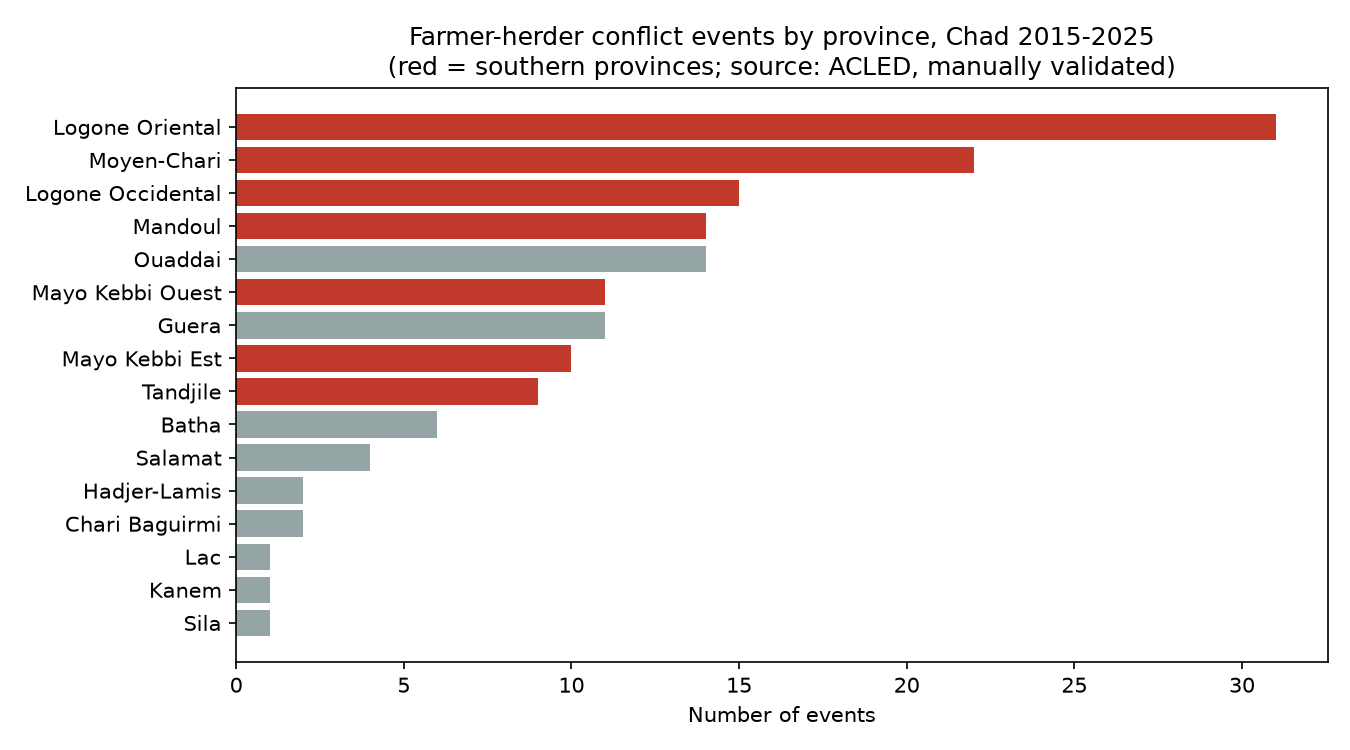
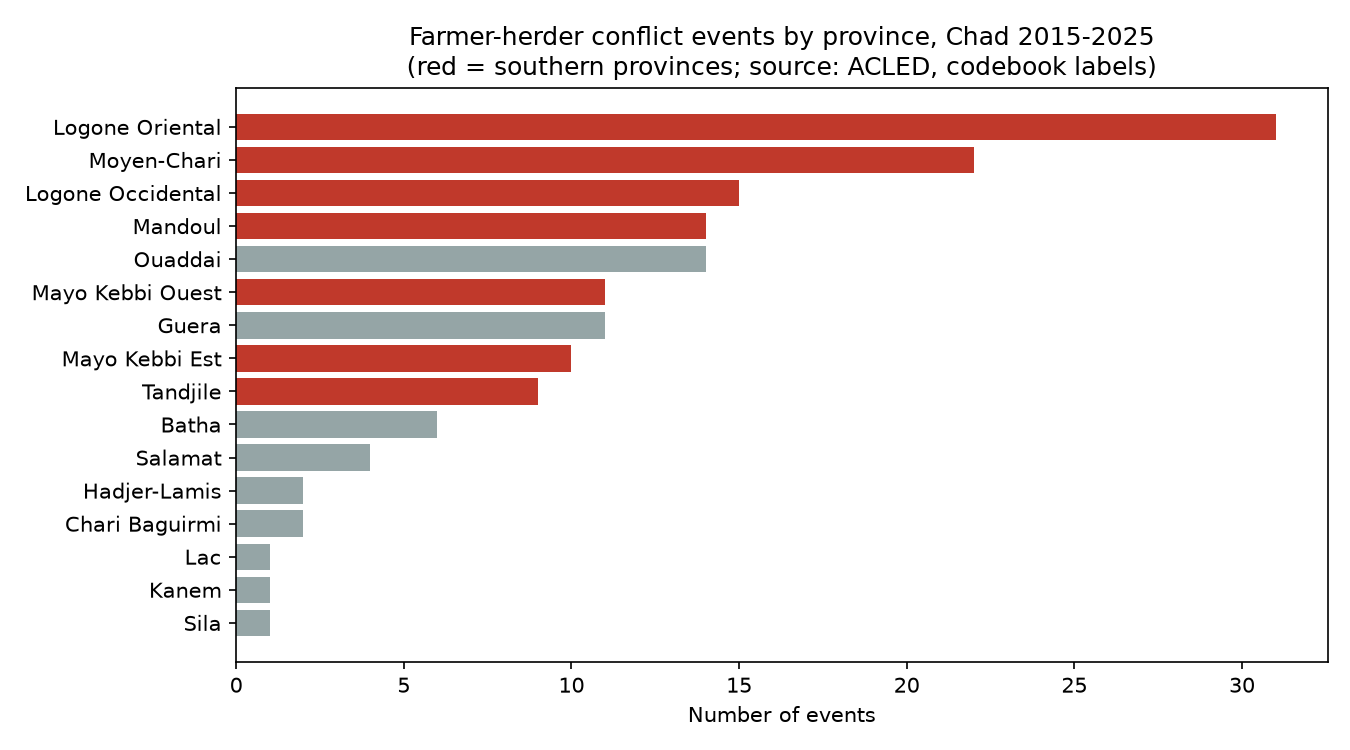
Align repository with the ethics summative (REC approval, AI use, research status)
- State that the 1,593 ACLED events were classified with an AI assistant and validated on a
  blind 60-event sample (codebook, labels module, scripts, dashboard captions, notebook, figure)
- Questionnaire: consent text matches the approved form; status note (not sent yet, runs only
  under REC approval SEPT26-BSE-087); drop "patrols" from the examples
- Model card: author, supervisor and REC approval; "danger maps" as a prohibited use; proxy,
  access and validation limitations; accurate AI-use statement
- README: ethics section (approval, status, consent, frameworks, limitations), AI use,
  copyright (all rights reserved) and third-party licences
- Privacy & Terms page v1.1: UNESCO and ACM guidance named; AI classification disclosed
- Technical report rebuilt: practitioner feedback "not started", 81 tests, ethics and AI use

Changed region(s): [[0.28, 0.0613, 0.8711, 0.1227]]

diff --git a/app/i18n.py b/app/i18n.py
@@ -19,11 +19,11 @@ TXT = {
              ["Perspectives actuelles", "Rejeu 2024–2025", "Résultats", "Conflits observés",
               "À propos des modèles", "Confidentialité et conditions"]),
     "map_source": ("Conflict data: ACLED (Armed Conflict Location & Event Data), "
-                   "[acleddata.com](https://acleddata.com), events classified by the author. "
+                   "[acleddata.com](https://acleddata.com), events classified for this project with an AI assistant. "
                    "Boundaries: geoBoundaries / OCHA Chad (CC BY 3.0 IGO). Background map: © "
                    "OpenStreetMap contributors.",
                    "Données de conflit : ACLED (Armed Conflict Location & Event Data), "
-                   "[acleddata.com](https://acleddata.com), événements classés par l'auteur. "
+                   "[acleddata.com](https://acleddata.com), événements classés pour ce projet avec un assistant IA. "
                    "Limites : geoBoundaries / OCHA Tchad (CC BY 3.0 IGO). Fond de carte : © "
                    "contributeurs OpenStreetMap."),
     "caption": ("Research prototype · satellite data up to **{sat}** · conflict data (ACLED, "
@@ -96,10 +96,12 @@ TXT = {
     "obs_deaths": ("Fatalities (strict FH)", "Décès (FH strict)"),
     "obs_dm": ("Department-months with ≥1 event", "Mois-départements avec ≥ 1 événement"),
     "obs_legend": ("Events in period", "Événements sur la période"),
-    "obs_caption": ("ACLED events manually classified as farmer-herder violence (blind "
-                    "validation: Cohen's kappa = 0.83), January 2019 – {end}.",
-                    "Événements ACLED classés manuellement comme violences agriculteurs-éleveurs"
-                    " (validation à l'aveugle : kappa de Cohen = 0,83), janvier 2019 – {end}."),
+    "obs_caption": ("ACLED events classified as farmer-herder violence with an AI assistant and a "
+                    "written codebook (blind validation on 60 events: Cohen's kappa = 0.83), "
+                    "January 2019 – {end}.",
+                    "Événements ACLED classés comme violences agriculteurs-éleveurs avec un "
+                    "assistant IA et un guide de codage écrit (validation à l'aveugle sur 60 "
+                    "événements : kappa de Cohen = 0,83), janvier 2019 – {end}."),
     "events": ("events", "événements"), "fatalities": ("fatalities", "décès"),
     "about": ("**Two models, two purposes.**\n\n"
               "- **Operational model** (*Current outlook*, *Replay*): uses only what is really "
@@ -221,7 +223,7 @@ visible ; le satellite voit les cultures sécher, pas la récolte elle-même.
 PRIVACY = {
     "en": """
 ## Privacy policy and terms of use
-*Version 1.0 · last updated 18 November 2026*
+*Version 1.1 · last updated 20 November 2026*
 
 This dashboard is a research prototype built by Sougnabe Payang for a BSc Software Engineering
 capstone project at African Leadership University (ALU). The research was approved by the ALU
@@ -270,7 +272,7 @@ information**.
 ### 5. Data sources and licences
 | Source | Licence / terms |
 |---|---|
-| ACLED conflict events (classified by the author) | ACLED End User License Agreement and Attribution Policy; raw data not redistributed |
+| ACLED conflict events (classified for this project with an AI assistant) | ACLED End User License Agreement and Attribution Policy; raw data not redistributed |
 | MODIS MOD13Q1 vegetation index (NASA) | no restrictions on use or redistribution |
 | CHIRPS rainfall (Climate Hazards Center, UCSB) | public domain |
 | ESA WorldCover 2021 | CC BY 4.0 |
@@ -282,7 +284,9 @@ information**.
 ### 6. Legal framework
 Designed to respect Chad's Law n° 007/PR/2015 on personal data protection, Rwanda's Law
 n° 058/2021 on the protection of personal data and privacy (ALU is based in Kigali) and the
-African Union Convention on Cyber Security and Personal Data Protection (Malabo, 2014).
+African Union Convention on Cyber Security and Personal Data Protection (Malabo, 2014). It also
+follows two non-binding guides: the UNESCO Recommendation on the Ethics of Artificial
+Intelligence (2021) and the ACM Code of Ethics and Professional Conduct (2018).
 
 ### 7. Changes and contact
 Any change to this policy will be dated above. Questions, corrections or requests to remove
@@ -290,7 +294,7 @@ content: s.payang@alustudent.com.
 """,
     "fr": """
 ## Politique de confidentialité et conditions d'utilisation
-*Version 1.0 · dernière mise à jour le 18 novembre 2026*
+*Version 1.1 · dernière mise à jour le 20 novembre 2026*
 
 Ce tableau de bord est un prototype de recherche réalisé par Sougnabe Payang dans le cadre d'un
 projet de fin d'études (BSc Software Engineering) à l'African Leadership University (ALU). La
@@ -342,7 +346,7 @@ description d'événement et aucune information ethnique, religieuse ou linguist
 ### 5. Sources de données et licences
 | Source | Licence / conditions |
 |---|---|
-| Événements de conflit ACLED (classés par l'auteur) | Contrat de licence (EULA) et politique d'attribution d'ACLED ; données brutes non redistribuées |
+| Événements de conflit ACLED (classés pour ce projet avec un assistant IA) | Contrat de licence (EULA) et politique d'attribution d'ACLED ; données brutes non redistribuées |
 | Indice de végétation MODIS MOD13Q1 (NASA) | aucune restriction d'utilisation ou de redistribution |
 | Pluie CHIRPS (Climate Hazards Center, UCSB) | domaine public |
 | ESA WorldCover 2021 | CC BY 4.0 |
@@ -356,6 +360,9 @@ Conçu pour respecter la loi tchadienne n° 007/PR/2015 portant protection des d
 caractère personnel, la loi rwandaise n° 058/2021 relative à la protection des données à
 caractère personnel et de la vie privée (l'ALU est basée à Kigali) et la Convention de l'Union
 africaine sur la cybersécurité et la protection des données à caractère personnel (Malabo, 2014).
+Il suit aussi deux guides non contraignants : la Recommandation de l'UNESCO sur l'éthique de
+l'intelligence artificielle (2021) et le Code d'éthique et de conduite professionnelle de l'ACM
+(2018).
 
 ### 7. Modifications et contact
 Toute modification de cette politique sera datée ci-dessus. Questions, corrections ou demandes

diff --git a/chadrisk/data/labels.py b/chadrisk/data/labels.py
@@ -1,6 +1,7 @@
 """Validated event labels and the farmer-herder target variable.
 
-Labels (see docs/labeling_codebook.md):
+Labels (see docs/labeling_codebook.md; events classified with an AI assistant following
+the codebook, checked on a blind 60-event sample labelled by the author):
     FH  direct violence between farmers and herders (model target)
     AMB communal / pastoral violence without explicit farmer-herder framing
     REL related but non-violent event (protest, arrests, reconciliation)
@@ -17,7 +18,7 @@ VALID_LABELS = ("FH", "AMB", "REL", "NO")
 
 
 class LabelledEvents:
-    """Joins raw ACLED events with the manual labels and derives the targets."""
+    """Joins raw ACLED events with the codebook labels and derives the targets."""
 
     def __init__(self, events: pd.DataFrame, labels: pd.DataFrame):
         self._validate_labels(labels)
@@ -55,7 +56,7 @@ class LabelledEvents:
 
     @staticmethod
     def keyword_agreement(df: pd.DataFrame) -> tuple[float, float]:
-        """Precision and recall of the keyword filter against the manual labels."""
+        """Precision and recall of the keyword filter against the codebook labels."""
         hits = df["keyword_hit"] & (df["target_fh"] == 1)
         return hits.sum() / df["keyword_hit"].sum(), hits.sum() / df["target_fh"].sum()
 

diff --git a/chadrisk/config.py b/chadrisk/config.py
@@ -95,7 +95,7 @@ OUTCOME_COLUMNS = frozenset({"n_fh", "n_broad", "n_all_events", "fatalities_fh",
 SENSITIVE_TERMS = ("ethnic", "ethnie", "tribe", "tribal", "clan", "religio", "race", "racial",
                    "language", "langue", "caste", "nationality", "actor")
 
-# Keyword filter used only to compare with the manual classification
+# Keyword filter used only to compare with the codebook classification
 KEYWORDS = (r"herder|herdsm|pastoral|cattle|livestock|transhuman|nomad|grazing|"
             r"farmer|crop|field|farm|camel|cow|oxen|herd")
 

diff --git a/scripts/build_target.py b/scripts/build_target.py
@@ -23,7 +23,7 @@ print(fh.groupby("admin1_norm").agg(events=("event_id_cnty", "size"),
       .sort_values("events", ascending=False).to_string())
 
 precision, recall = LabelledEvents.keyword_agreement(events)
-print(f"\nKeyword filter vs manual labels: precision {precision:.0%}, recall {recall:.0%}")
+print(f"\nKeyword filter vs codebook labels: precision {precision:.0%}, recall {recall:.0%}")
 
 # Blind validation sample: never overwrite one that has already been annotated
 if PATHS.validation_sample.exists():

diff --git a/scripts/eda_acled.py b/scripts/eda_acled.py
@@ -45,7 +45,7 @@ colors = ["#c0392b" if s else "#95a5a6" for s in by_prov["south"]]
 ax.barh(by_prov.index[::-1], by_prov["events"][::-1], color=colors[::-1])
 ax.set_xlabel("Number of events")
 ax.set_title("Farmer-herder conflict events by province, Chad 2015-2025\n"
-             "(red = southern provinces; source: ACLED, manually validated)")
+             "(red = southern provinces; source: ACLED, codebook labels)")
 plt.tight_layout()
 plt.savefig(FIG_DIR / "fh_by_province.png", dpi=150)
 plt.close()

diff --git a/scripts/update_outlook.py b/scripts/update_outlook.py
@@ -8,7 +8,7 @@ Steps:
 
 Conflict data (ACLED) are not refreshed here: new events must first be classified with the
 codebook (docs/labeling_codebook.md) before they can be used. Refreshing them is a separate,
-periodic step (download_acled.py, manual labelling, build_target.py, build_panel.py, init_db.py).
+periodic step (download_acled.py, classification with the codebook, build_target.py, build_panel.py, init_db.py).
 
 Usage: python scripts/update_outlook.py
 """

diff --git a/README.md b/README.md
@@ -17,8 +17,9 @@ farmer-herder conflict**, so that humanitarian organisations, local authorities 
 committees can focus prevention before violence happens.
 
 It combines:
-- a **new, validated dataset** of farmer-herder conflict events: all 1,593 ACLED events for Chad
-  (2015–2025) classified with a written codebook, blind validation Cohen's kappa = 0.83;
+- a **new dataset** of farmer-herder conflict events: all 1,593 ACLED events for Chad
+  (2015–2025) classified with an AI assistant and a written codebook, validated by the author on a
+  blind 60-event sample (Cohen's kappa = 0.83);
 - **satellite indicators** from Google Earth Engine: crop greenness (MODIS NDVI), rainfall
   (CHIRPS), pasture conditions in the herds' northern departure zones, cropland, surface water,
   population;
@@ -157,17 +158,77 @@ On Streamlit Community Cloud: main file `app/app.py` (dependencies from `app/req
 The deployed app reads only `data/app.db` and `reports/`, which hold aggregated data. The
 database path can be changed with the environment variable `CHADRISK_DB`.
 
-## Data and ethics
+## Ethics
 
-- Raw ACLED data and any file containing event notes are not redistributed (licence); they are
-  excluded by `.gitignore`.
-- Outputs are aggregated at department level; no ethnic or religious variable is used, and
-  `check_feature_sets` (`chadrisk/experiment.py`) stops training if a feature describes ethnicity,
-  religion, language or conflict actors.
-- The dashboard collects nothing about its visitors (no forms, no analytics; Streamlit usage
-  statistics are disabled). Its *Privacy & terms* page states these promises, the prohibited
-  uses and the data licences; every map cites ACLED, as its Attribution Policy requires.
-- The dashboard supports human decisions; it does not make them. Intended and prohibited uses:
-  `docs/model_card.md`.
-- AI tools were used for coding assistance and for a first-pass event classification; every
-  label used as ground truth was checked against a blind human validation.
+- **Approval.** ALU Research Ethics Committee, approval code **SEPT26-BSE-087**
+  (5 November 2026, valid 6 months). Conditions: informed consent, information on purpose and
+  data use, anonymity and confidentiality, no coercion or payment, any change of procedure
+  reported to the REC within 48 hours.
+- **Who is involved, and status.** The model uses only secondary data (ACLED events, public
+  satellite data) and no information about identifiable people. The only research with people is
+  an anonymous practitioner questionnaire (`docs/practitioner_feedback_form.md`). **It has not been
+  sent yet: no participant data have been collected and no user testing with participants has
+  taken place.** A prototype of the dashboard was public from October 2026, before the approval;
+  it collected nothing from visitors and was not shown to any participant.
+- **Consent.** The first section of the questionnaire explains purpose, anonymity, voluntary
+  participation, withdrawal, data use and storage, with researcher and REC contacts; a required
+  "I agree" question must be accepted before the other questions. No name, email, organisation or
+  location is recorded; answers are deleted at the end of the project.
+- **Protected characteristics.** No ethnic, religious, language or actor variable is used:
+  `check_feature_sets` (`chadrisk/experiment.py`) stops training if a feature describes one of
+  them (8 unit tests in `tests/unit/test_ethics.py`). Outputs are aggregated for the 26
+  departments: no villages, names or event descriptions.
+- **Honest scores.** Departments are shown in two priority levels with their measured meaning
+  (Priority: conflict in 20% of quarters in 2024–2025; Lower: 5%), never as exact probabilities;
+  a permanent warning says scores support, not replace, local judgement.
+- **No tracking.** The dashboard collects nothing about its visitors (no forms, no analytics;
+  Streamlit usage statistics are disabled in `.streamlit/config.toml`). Credentials stay in
+  `.env`, which is excluded from git.
+- **Privacy & Terms page** (in the app): transparency notice, single declared purpose (prevention
+  planning, decision support only), prohibited uses (targeting, profiling or policing communities,
+  automated decisions, "danger maps"…) and data licences. Every map cites ACLED.
+- **Frameworks.** Designed against Chad's Law n° 007/PR/2015 on personal data protection (binding
+  in Chad), Rwanda's Law n° 058/2021 (binding where ALU is based and where the questionnaire
+  answers are processed), the African Union Malabo Convention (binding on Rwanda; guidance for
+  Chad, which signed but has not ratified), the UNESCO Recommendation on the Ethics of AI and the
+  ACM Code of Ethics (guidance).
+- **Known limitations.** The guard checks feature names, not hidden proxies; ACLED reporting bias
+  cannot be corrected without field data; practitioner validation is still to come; no Arabic
+  version; the map takes about 33 s to load on a low-end phone with slow 3G; herder and farmer
+  communities have not been consulted directly. See `docs/model_card.md`.
+
+## AI use
+
+The problem, the model concept (northern herds moving south in the dry season and reaching
+farmers' fields at planting and harvest) and all decisions are the author's. The author wrote the
+code (the `chadrisk` package, the dashboard and the tests) and used an AI assistant to clean it up
+(bug fixes, structure, additional tests). The labelling codebook and the classification of the
+1,593 ACLED events were produced by an AI assistant following the author's instructions; the
+author labelled a stratified sample of 60 events blind (Cohen's kappa = 0.83, farmer-herder vs.
+other) and added two codebook rules from the disagreements. The dashboard texts were drafted with
+an AI assistant and edited by the author.
+
+## Copyright and licences
+
+© 2026 Sougnabe Payang. **All rights reserved.** The repository is public so that it can be
+viewed under GitHub's terms, but it has no open-source licence: the code, codebook, labels and
+dashboard texts may not be reused without permission.
+
+Third-party components remain the property of their authors and are used under their licences:
+
+| Component | Licence | Use |
+|---|---|---|
+| pandas, NumPy, GeoPandas, Shapely, scikit-learn, joblib, python-dotenv, psutil, nbformat, nbconvert | BSD-3-Clause | unmodified dependencies (`requirements*.txt`) |
+| XGBoost, Streamlit, earthengine-api, requests, Playwright | Apache-2.0 | unmodified dependencies |
+| SHAP, folium, streamlit-folium, pytest | MIT | unmodified dependencies |
+| Matplotlib | Matplotlib License (PSF-based) | unmodified dependency |
+| Leaflet (map engine, via folium) | BSD-2-Clause | attribution on every map |
+| Google Earth Engine (service) | Google Earth Engine Terms of Service | non-commercial research account |
+| ACLED conflict events | ACLED End User License Agreement and Attribution Policy | non-commercial; raw data not redistributed (`.gitignore`), only department-level counts published; cited under every map |
+| MODIS MOD13Q1 v061 (NASA LP DAAC) | NASA data policy, no restrictions | cited |
+| CHIRPS rainfall (Climate Hazards Center, UCSB) | public domain | cited |
+| ESA WorldCover 2021 v200 | CC BY 4.0 | attribution on the Privacy page |
+| JRC Global Surface Water v1.4 | Copernicus data policy, acknowledgement required | cited |
+| WorldPop 100 m population 2020 | CC BY 4.0 | attribution on the Privacy page |
+| geoBoundaries / OCHA Chad boundaries | CC BY 3.0 IGO | attribution under every map |
+| OpenStreetMap background tiles | ODbL 1.0; OSMF Tile Usage Policy | "© OpenStreetMap contributors" on the map |

diff --git a/docs/model_card.md b/docs/model_card.md
@@ -3,8 +3,10 @@
 *Format adapted from Mitchell et al. (2019), "Model Cards for Model Reporting".*
 
 ## Model details
-- **Developer:** undergraduate capstone project, BSc Software Engineering (Machine Learning),
-  African Leadership University, 2026.
+- **Developer:** Sougnabe Payang, undergraduate capstone project, BSc Software Engineering
+  (Machine Learning), African Leadership University, 2026. Supervisor: Emmanuel Adjei.
+- **Ethics approval:** ALU Research Ethics Committee, approval code SEPT26-BSE-087
+  (5 November 2026, valid 6 months).
 - **Model used by the dashboard:** logistic regression (`logreg_OB`, L2-regularised,
   class-weighted, standardised inputs), operational mode, quarterly horizon.
 - **Output:** for each of the 26 departments of southern Chad, a risk score for the coming
@@ -26,6 +28,7 @@
 - Targeting, profiling or policing any community. The model contains no ethnic or religious
   information, and its outputs must not be linked to such information.
 - Automated decisions about people, land, movements of herds or security deployments.
+- Publishing the maps or rankings as "danger maps" of areas or communities.
 - Use outside southern Chad, or with a different conflict definition, without re-validation.
 
 ## Inputs
@@ -41,14 +44,15 @@ Only information available when a forecast is issued:
 
 ## Training and evaluation data
 - **Target:** at least one farmer-herder violent event in a department during the quarter.
-  Events come from ACLED (1,593 events for Chad, 2015–2025), classified with a written codebook
-  (`docs/labeling_codebook.md`). A blind validation on 60 events gave Cohen's kappa = 0.83 for
-  the target class.
+  Events come from ACLED (1,593 events for Chad, 2015–2025), classified by an AI assistant with a
+  written codebook (`docs/labeling_codebook.md`). The author labelled a stratified sample of 60
+  events blind (without seeing the AI labels): Cohen's kappa = 0.83 for farmer-herder vs. other;
+  two codebook rules were added from the disagreements.
 - **Period:** model selection on 2019–2023 (rolling-origin validation); single evaluation on the
   held-out period 2024 – September 2025 (182 department-quarters, 20 with a conflict,
   prevalence 0.11).
 - **No look-ahead:** every feature uses only information available before the forecast period;
-  this is checked by automated tests (`tests/test_pipeline.py`).
+  this is checked by automated tests (`tests/integration/test_pipeline.py`).
 
 ## Performance (test period, quarterly)
 | Model | PR-AUC [95% CI] | ROC-AUC |
@@ -90,6 +94,14 @@ should be interpreted together, not individually.
   visible in the data; the satellite sees crops drying, not the harvest itself.
 - **Delay of conflict data:** with real-time conflict data, the research model (recent
   history) would also be available operationally.
+- **No validation by practitioners yet:** the practitioner questionnaire
+  (`docs/practitioner_feedback_form.md`) has not been sent; usefulness is not yet demonstrated.
+- **Proxies:** the protected-characteristic guard checks feature names, not hidden proxies;
+  population density or pasture conditions in the north may still be linked to where herders live.
+- **Access:** no Arabic version, although Arabic is an official language of Chad (an unchecked
+  machine translation of the risk warnings was judged worse than none); on a low-end phone with
+  slow 3G the map takes about 33 s to load; internet access is required; there is no SMS, radio
+  or audio channel for low-literacy users.
 
 ## Ethical considerations
 - Aggregated department-level outputs only; no personal, ethnic or religious data.
@@ -102,8 +114,11 @@ should be interpreted together, not individually.
   "danger maps".
 - Errors have costs both ways: a department wrongly ranked low may receive less attention.
   Rankings must be combined with local knowledge.
-- AI tools were used for coding assistance and the first-pass event classification; ground-truth
-  labels were checked through blind human validation.
+- Herder and farmer communities themselves have not been consulted directly.
+- **AI use:** the author wrote the code and used an AI assistant to clean it up (bug fixes,
+  structure, tests). The labelling codebook and the classification of all 1,593 events were
+  produced by an AI assistant following the author's instructions, and validated on a blind
+  60-event sample (see above), not event by event.
 
 ## Maintenance
 - **Satellite data:** monthly, with `python scripts/update_outlook.py` (about 3 weeks after the

diff --git a/docs/practitioner_feedback_form.md b/docs/practitioner_feedback_form.md
@@ -3,6 +3,12 @@
 *To be shared with the dashboard link. Estimated time: 10 minutes. Responses are anonymous and
 used only for an undergraduate research project at African Leadership University.*
 
+> **Status (20 November 2026):** the questionnaire is set up in Google Forms with a required
+> consent question, but it **has not been sent yet**: no participant data have been collected and
+> no user testing with participants has taken place. It will be distributed only under ALU
+> Research Ethics Committee approval SEPT26-BSE-087 (5 November 2026, valid 6 months); any change
+> to this procedure is reported to the REC within 48 hours.
+
 ## Information and consent (must be accepted before the questions)
 
 **Purpose.** This questionnaire asks practitioners whether a dashboard that ranks the 26
@@ -14,7 +20,7 @@ Leadership University (ALU), approved by the ALU Research Ethics Committee
 **What you will do.** Look at the dashboard (https://chad-conflict-risk.streamlit.app/) and
 answer 12 questions. It takes about 10 minutes.
 
-**Anonymity.** The form does not ask for your name, email, organisation name or location, and
+**Anonymity.** The form does not ask for your name, email, organisation or location, and
 does not record email addresses. Do not write names of people or villages in your answers.
 Answers are reported only in grouped form or as short anonymous quotes.
 
@@ -23,7 +29,7 @@ refusing has no consequence for you or your organisation. You may skip any quest
 any time.
 
 **Withdrawal.** Because no identity is recorded, a response cannot be linked to you after it is
-submitted. If you want to withdraw before submitting, simply close the form; nothing is saved.
+submitted, so it cannot be withdrawn then. If you want to withdraw before submitting, close the form; nothing is saved.
 
 **Data use and storage.** Answers are used only to evaluate the dashboard in the capstone
 report. They are kept in the researcher's ALU Google account, are not shared with third parties,
@@ -52,7 +58,7 @@ Research Ethics Committee, researchethics@alueducation.com.
 | 4 | The seasonal pattern shown matches my experience (sowing, harvest, transhumance). | ☐ | ☐ | ☐ | ☐ | ☐ |
 | 5 | The departments ranked as highest risk are plausible. | ☐ | ☐ | ☐ | ☐ | ☐ |
 | 6 | The dashboard is easy to understand without technical training. | ☐ | ☐ | ☐ | ☐ | ☐ |
-| 7 | A quarterly risk ranking would be useful for planning (e.g. prevention, mediation, patrols). | ☐ | ☐ | ☐ | ☐ | ☐ |
+| 7 | A quarterly risk ranking would be useful for planning (e.g. prevention, mediation, dialogue). | ☐ | ☐ | ☐ | ☐ | ☐ |
 
 ## Open questions
 8. Which department or period ranked by the dashboard surprised you, and why?

diff --git a/docs/labeling_codebook.md b/docs/labeling_codebook.md
@@ -1,5 +1,10 @@
 # Labeling Codebook — Farmer-Herder Conflict Events (ACLED, Chad 2015–2025)
 
+*Authorship: this codebook and the classification of the 1,593 events were drafted for this project
+by an AI assistant, following the author's instructions. The author validated the classification
+blind on a 60-event sample and added decision rules 2 and 3 from the disagreements (see Procedure).
+The labels are therefore AI labels checked on a sample, not labels checked one by one.*
+
 ## Source
 ACLED event data for Chad, 1 January 2015 – 2 October 2025 (1,593 events), downloaded via the ACLED API
 with Research-tier access (12-month publication lag). Raw data are not redistributed (ACLED licence).
@@ -21,9 +26,9 @@ with Research-tier access (12-month publication lag). Raw data are not redistrib
 5. **Multi-day and duplicate events** are kept as coded by ACLED. The model target is binary at department-month level ("at least one FH event"), so duplicates do not inflate it.
 
 ## Procedure
-1. Every one of the 1,593 event notes was read and labeled (AI-assisted first pass, applying the rules above).
-2. A stratified validation sample of 60 events (30 FH, 15 AMB, 15 keyword-matching NO), with labels hidden, was independently labeled by the author.
-3. Agreement was measured with Cohen's kappa; disagreements were reviewed and resolved into decision rules 2 and 3.
+1. All 1,593 event notes were classified by an AI assistant applying the codebook, as instructed by the author.
+2. A stratified validation sample of 60 events (30 FH, 15 AMB, 15 keyword-matching NO), with labels hidden, was independently labeled by the author without seeing the AI labels.
+3. Agreement was measured with Cohen's kappa; the author reviewed the disagreements and added decision rules 2 and 3 to the codebook.
 
 ## Validation results (before rule refinement)
 
@@ -36,8 +41,8 @@ with Research-tier access (12-month publication lag). Raw data are not redistrib
 
 ## Comparison with keyword filtering
 A keyword filter on the notes (herder, pastoral, cattle, farmer, field, etc.) achieved 60% precision and 99% recall
-against the manual labels: it captures almost all true events but includes many false positives
-(Boko Haram cattle raids, refugee-camp attacks, state violence). Manual labeling was therefore necessary.
+against the codebook labels: it captures almost all true events but includes many false positives
+(Boko Haram cattle raids, refugee-camp attacks, state violence). Reading and classifying each event note against the codebook was therefore necessary.
 
 ## Final label counts
 FH = 154 (112 in the seven southern provinces, 73%), AMB = 80, REL = 25, NO = 1,334.
